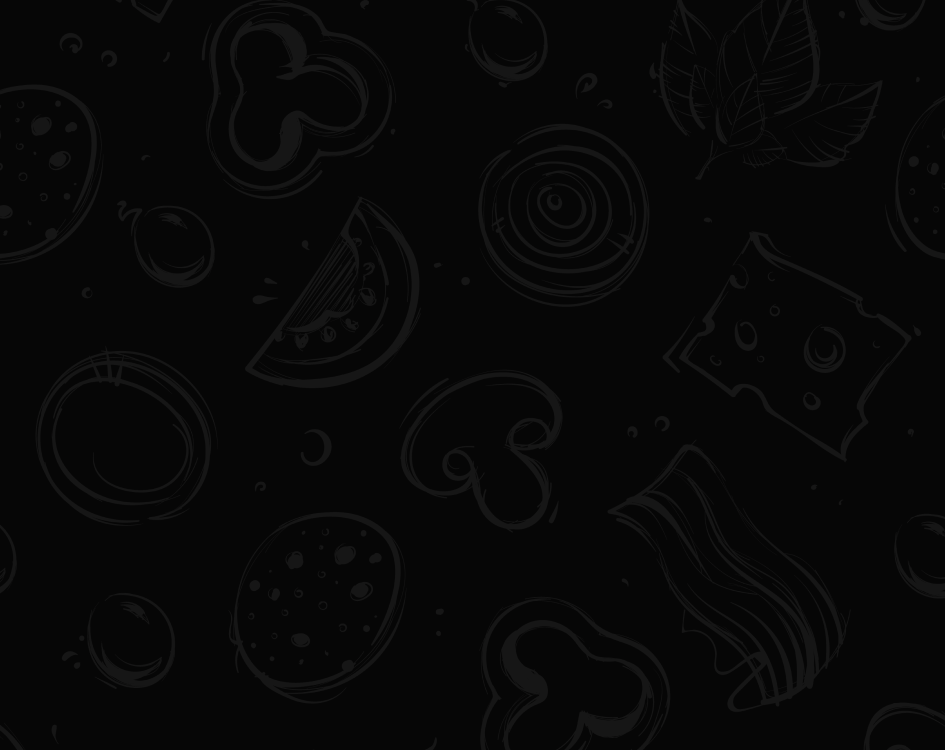
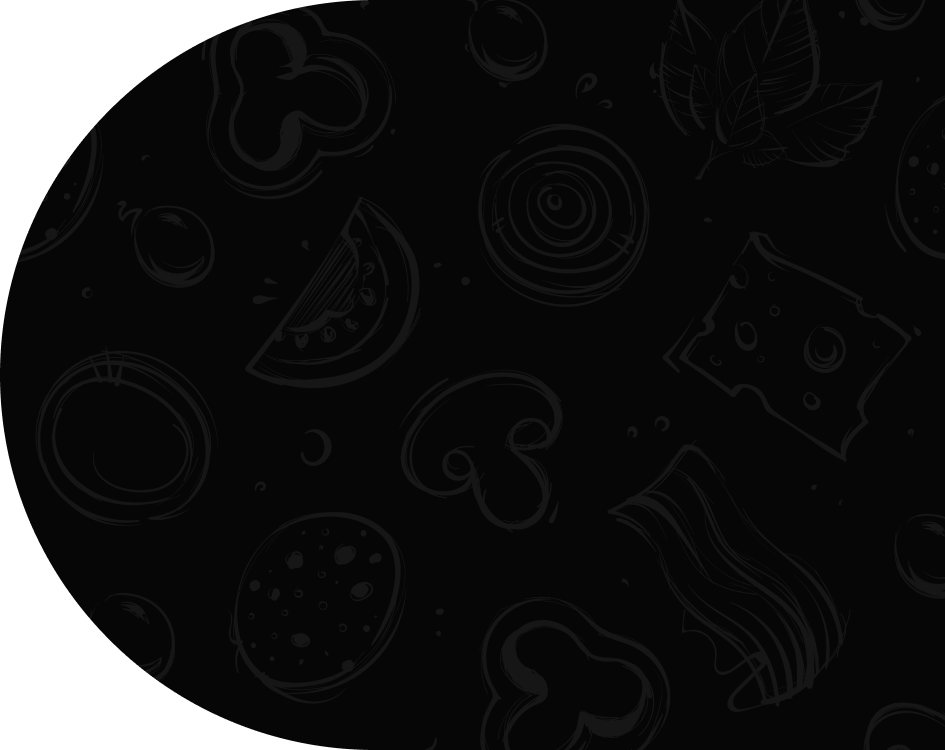
add bg-sushi body

Changed region(s): [[0.0, 0.552, 0.3683, 1.0], [0.0, 0.0, 0.3683, 0.4293]]

diff --git a/app/index.html b/app/index.html
@@ -9,7 +9,7 @@
   </head>
 
   <body>
-    <header class="container">
+    <header class="container bg-sushi">
       <nav class="page-header__nav">
         <a href="index.html" class="page-header__logo"
           ><img
@@ -38,6 +38,7 @@
     </header>
 
     <main class="container">
+     
       <div class="home">
         <h1 class="home__title title">You Can Eat Any Tasty Food You Like.</h1>
         <p class="home__description">
@@ -45,13 +46,6 @@
           eiusmod tempor incididunt ut labore et dolore magna aliqua. Ut enim ad
           minim veniam, quis nostrud exercitation ullamco laboris.
         </p>
-
-        <!-- <img
-          src="./img/sufhi-group.png"
-          width="800"
-          height="auto"
-          alt="фото суши"
-        /> -->
 
         <a type="button" class="home__button button">Get Started</a>
       </div>
@@ -117,18 +111,19 @@
 
       <div class="contacts">
         <div class="contacts__list">
-          <!-- <svg width="16" height="16" viewBox="0 0 16 16" xmlns="http://www.w3.org/2000/svg" class="contacts__icon">
-            <path d="M8 16C3.5816 16 0 12.4184 0 8C0 3.5816 3.5816 0 8 0C12.4184 0 16 3.5816 16 8C16 12.4184 12.4184 16 8 16ZM8 14.4C9.69739 14.4 11.3253 13.7257 12.5255 12.5255C13.7257 11.3253 14.4 9.69739 14.4 8C14.4 6.30261 13.7257 4.67475 12.5255 3.47452C11.3253 2.27428 9.69739 1.6 8 1.6C6.30261 1.6 4.67475 2.27428 3.47452 3.47452C2.27428 4.67475 1.6 6.30261 1.6 8C1.6 9.69739 2.27428 11.3253 3.47452 12.5255C4.67475 13.7257 6.30261 14.4 8 14.4V14.4ZM8.8 8H12V9.6H7.2V4H8.8V8Z" fill="white"/>
-            </svg> -->
-            <span class="contacts__icon-time"></span>
+            <span class="contacts__icon contacts__icon--time"></span>
             <p class="contacts__title">Today 10:00am - 09:00pm</p>
             <p class="contacts__description">Working Time</p>
         </div>
+
           <div class="contacts__list">
+            <span class="contacts__icon contacts__icon--location"></span>
             <p class="contacts__title">Washington, D.C., DC, USA</p>
             <p class="contacts__description">Our Location</p>
           </div>
+
           <div class="contacts__list">
+            <span class="contacts__icon contacts__icon--phone"></span>
             <p class="contacts__title">+17602781253</p>
             <p class="contacts__description">Call Online</p>
           </div>

diff --git a/app/styles/css/style.css b/app/styles/css/style.css
@@ -19,7 +19,11 @@ body {
   font-size: 16px;
   line-height: 24px;
   font-family: ProductSans-regular,sans-serif,serif;
-  color: #888
+  color: #888;
+  background-image: url(../../../img/main-bg-sushi.png),url(../../../img/black-bg.png);
+  background-position: 100% 0,100% 0;
+  background-repeat: no-repeat no-repeat;
+  background-size: 59%,41%
 }
 img {
   max-width: 100%;
@@ -242,12 +246,22 @@ input[type=radio].visually-hidden {
   margin: 0;
   font-size: 13px
 }
-.contacts__icon-time {
+.contacts__icon {
   width: 40px;
   height: 40px;
   margin: 0 auto;
   margin-bottom: 16px;
-  background: url(../../../img/icon-time.svg) center 50% no-repeat;
-  background-color: #f16214;
   border-radius: 50%
+}
+.contacts__icon--time {
+  background: url(../../../img/icon-time.svg) center 50% no-repeat;
+  background-color: #f16214
+}
+.contacts__icon--location {
+  background: url(../../../img/icon-location.svg) center 50% no-repeat;
+  background-color: #f16214
+}
+.contacts__icon--phone {
+  background: url(../../../img/icon-phone.svg) center 50% no-repeat;
+  background-color: #f16214
 }

diff --git a/app/styles/sass/style.scss b/app/styles/sass/style.scss
@@ -31,6 +31,11 @@ body {
   line-height: 24px;
   font-family: "ProductSans-regular", sans-serif, serif;
   color: $gray-text;
+  background-image: url(../../../img/main-bg-sushi.png),
+    url(../../../img/black-bg.png);
+  background-position: 100% 0, 100% 0;
+  background-repeat: no-repeat no-repeat;
+  background-size: 59%, 41%;
 }
 
 img {
@@ -261,12 +266,25 @@ input[type="radio"].visually-hidden {
   font-size: 13px;
 }
 
-.contacts__icon-time {
+.contacts__icon {
   width: 40px;
   height: 40px;
   margin: 0 auto;
   margin-bottom: 16px;
-  background: url(../../../img/icon-time.svg) center 50% no-repeat;
-  background-color: $bright-orange;
   border-radius: 50%;
+
+  &--time {
+    background: url(../../../img/icon-time.svg) center 50% no-repeat;
+    background-color: $bright-orange;
+  }
+
+  &--location {
+    background: url(../../../img/icon-location.svg) center 50% no-repeat;
+    background-color: $bright-orange;
+  }
+
+  &--phone {
+    background: url(../../../img/icon-phone.svg) center 50% no-repeat;
+    background-color: $bright-orange;
+  }
 }
